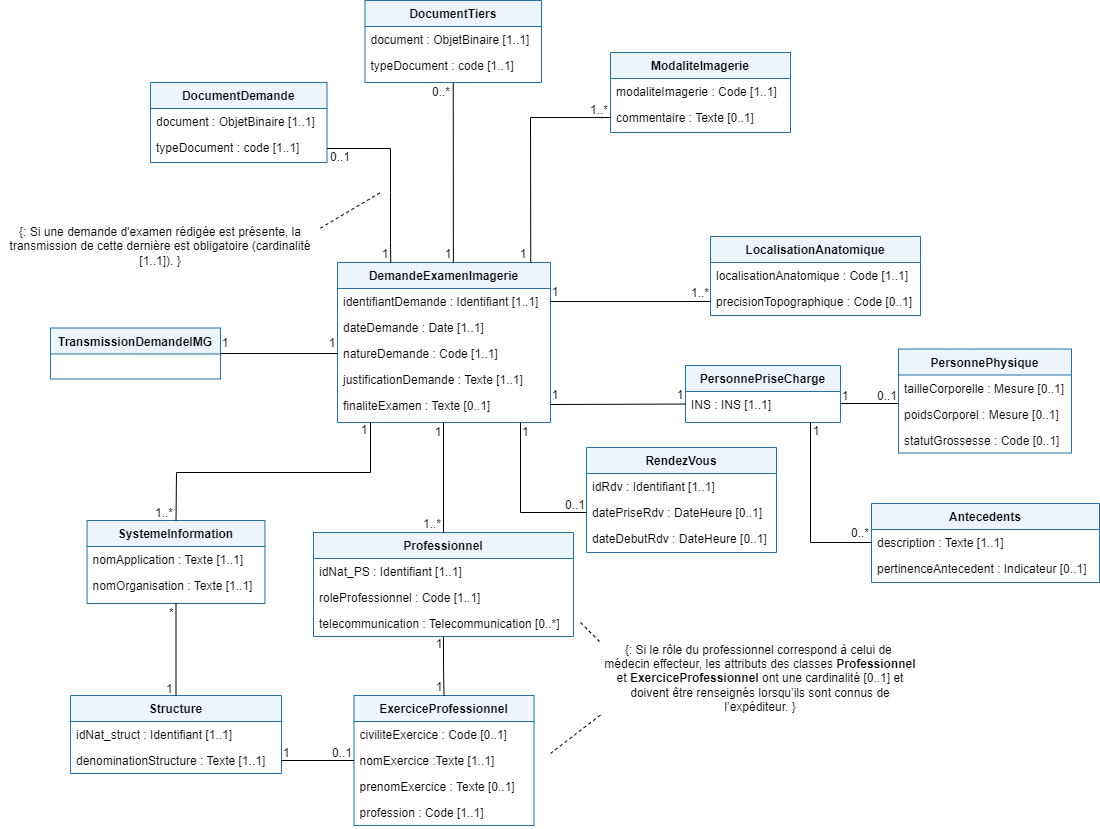
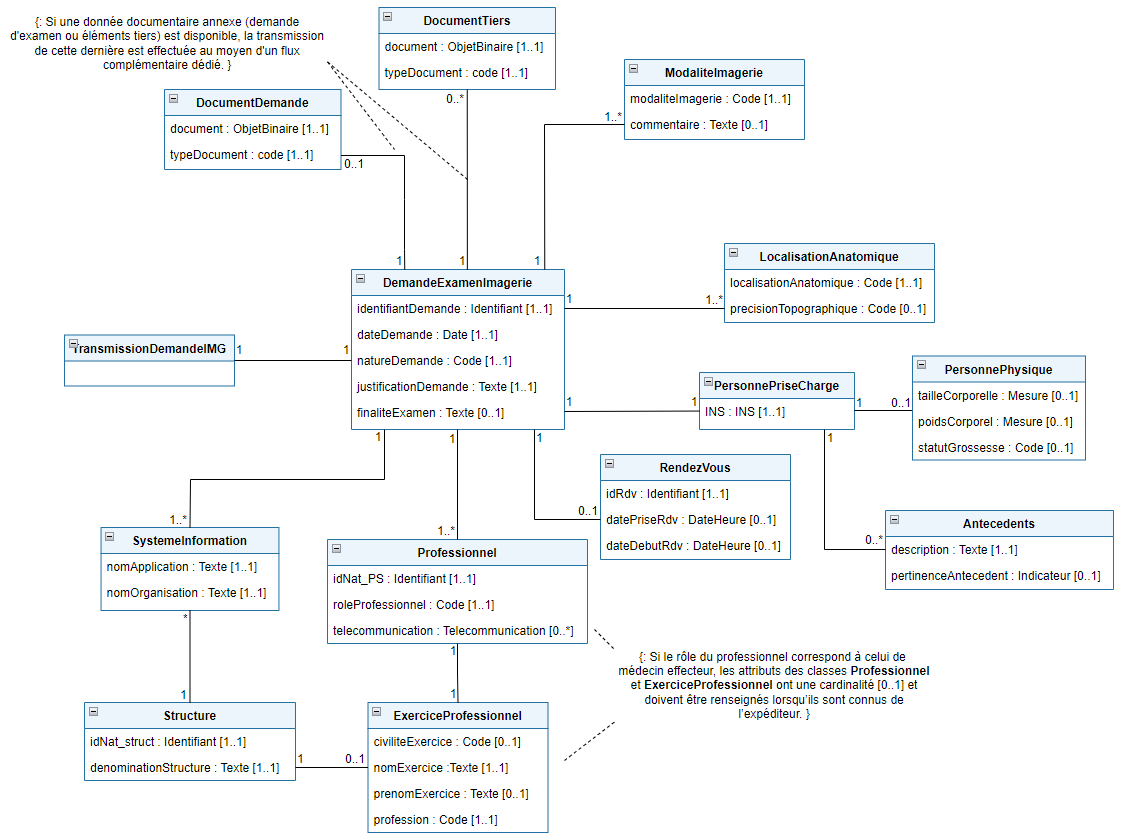
Ajustements SFE Issue #24 #27
Modification du contenu de la SFE afin de répondre aux problématiques suivantes :
Clarification du périmètre couvert par le flux n°1
Ajout d'un complément d'informations relatif à la gestion de l'URL viewer DRIMBox.

diff --git a/input/pagecontent/specifications_fonctionnelles.md b/input/pagecontent/specifications_fonctionnelles.md
@@ -148,7 +148,7 @@ Les lecteurs cibles de la présente spécification sont principalement des chefs
 
 La pratique de la téléradiologie peut être découpée en plusieurs groupes de processus associés à un contexte collaboratif entre un site demandeur d’une expertise médicale (structure d’imagerie) et un site distant en mesure de répondre à ce besoin (plateforme de téléradiologie). Dans ce cadre, trois groupes de processus sont distingués :
 
-- Le premier groupe concerne la demande d’examen d’imagerie. Il couvre les actions nécessaires à la création, la transmission, l’annulation, la validation, le refus, la modification ou la publication d’une demande d’examen d’imagerie.
+- Le premier groupe concerne la demande d’examen d’imagerie. Il couvre les actions nécessaires à la création, la transmission, l’annulation, la validation, le refus, la modification ou la publication d’une demande d’examen d’imagerie. Il est à noter qu'au sein de la présente étude le terme "demande d'examen d'imagerie" peut recouvrir aussi bien une donnée documentaire qu'un ensemble d'informations ordonnées permettant d'apprécier la prise en charge d'un patient en vue de la réalisation d'un acte d'imagerie.    
 
 - Le deuxième groupe est relatif à la réalisation du ou des actes d’imagerie. Il englobe les actions nécessaires à la préparation, au déroulement et au partage d’un ou plusieurs examens d’imagerie.
 
@@ -237,11 +237,11 @@ Les différents processus collaboratifs retenus dans le périmètre de la prése
 </tr>
 <tr>
 <td><strong>Contraintes fonctionnelles</strong></td>
-<td>Si la demande d’examen rédigée est connue (contexte de planification), en complément des éléments clés associés à la demande d'examen d'imagerie véhiculés dans la transaction, le Créateur initie au moins une transaction supplémentaire correspondant au document Demande d'examen d'imagerie complet (numérisé).</td>
+<td>Si la demande d’examen rédigée est connue (contexte de planification), en complément des éléments clés associés à la demande d'examen d'imagerie véhiculés dans la transaction, le Créateur peut initier au moins une transaction supplémentaire correspondant au document Demande d'examen d'imagerie complet (numérisé).</td>
 </tr>
 <tr>
 <td><strong>Scénario nominal</strong></td>
-<td>Le Créateur transmet une demande d’examen d’imagerie au Consommateur. Cette demande peut être accompagnée d’un ou plusieurs documents complémentaires.<br />
+<td>Le Créateur transmet les éléments composant une demande d’examen d’imagerie au Consommateur. Cette demande peut être accompagnée d’un ou plusieurs documents complémentaires.<br />
 Le Consommateur réceptionne et analyse la demande d’examen d’imagerie. Si applicable, le consommateur prend également connaissance des informations portées le(s) document(s) annexes.</td>
 </tr>
 </tbody>
@@ -690,12 +690,12 @@ Le diagramme d’activité ci-dessous illustre l’action de transmission des in
 <tr>
 <td>DocumentDemandeExamen</td>
 <td>Document correspondant à la demande d’examen d’imagerie rédigée.</td>
-<td>Flux 1</td>
+<td>N.A.</td>
 </tr>
 <tr>
 <td>DocumentsTiers</td>
 <td>Documents complémentaires associés à la demande d’examen d’imagerie.</td>
-<td>Flux 1</td>
+<td>N.A.</td>
 </tr>
 <tr>
 <td>LocalisationAnatomique</td>
@@ -718,8 +718,8 @@ Le diagramme d’activité ci-dessous illustre l’action de transmission des in
 <td>Flux 3</td>
 </tr>
 <tr>
-<td>URLViewerDRIMBOX</td>
-<td>Eléments permettant la construction d’une URL d’accès à la visionneuse DICOM implémentée par une solution DRIMBox associée au système RIS. Une fois l’URL assemblée, celle-ci doit être mentionnée au sein du compte-rendu d’imagerie. Ce concept permet l’intégration au maillage DRIM-M du compte-rendu d’imagerie rédigé suite à la réalisation de l’acte d’imagerie.</td>
+<td>URL_Partielle_Viewer</td>
+<td>Adresse partielle à compléter afin de permettre l’accès à la visionneuse DICOM implémentée par une solution DRIMBox associée au système RIS. Il est nécessaire de compléter cette donnée avec l'identifiant du compte-rendu d'imagerie afin d'obtenir un lien d'accès fonctionnel. Une fois l’URL assemblée, celle-ci doit être mentionnée au sein du compte-rendu d’imagerie. Ce concept permet l’intégration au maillage DRIM-M du compte-rendu d’imagerie rédigé suite à la réalisation de l’acte d’imagerie.</td>
 <td>Flux 4</td>
 </tr>
 <tr>
@@ -919,7 +919,7 @@ Le tableau présenté ci-dessous contient les éléments suivants :
 <td></td>
 </tr>
 <tr>
-<td>URLViewerDRIMBOX</td>
+<td>URL_Partielle_Viewer</td>
 <td></td>
 <td></td>
 <td></td>
@@ -999,6 +999,12 @@ Le tableau présenté ci-dessous contient les éléments suivants :
     </p>
 </div>
 
+<blockquote class="stu-note">
+    <p>
+    <b>(1) :</b> Il est important de préciser que les classes "DocumentDemande" et "DocumentTiers" ne sont mentionnées au sein de la modélisation ci-dessus qu'à des fins de valorisation du contexte global. En effet, le flux n°1 mis en oeuvre ne véhicule aucune données documentaire mais peut être complété par un ou plusieurs flux annexes véhiculant ces éléments. Ces flux annexes mis en oeuvre pour le transport des données correspondant aux classes "DocumentDemande" et "DocumentTiers" ne sont pas couvert au titre du périmètre de la présente étude. Il peut néanmoins être précisé que la mise en oeuvre de ces flux doit s’appuyer sur le Volet CI-SIS de transmission d’un document CDA-R2 en HL7v2.
+    </p>
+</blockquote>
+
 ##### Classe DemandeExamenImagerie
 
 Représente l’ensemble des informations nécessaires pour formaliser la demande de réalisation d’un examen d’imagerie. Regroupe les éléments cliniques, administratifs et organisationnels transmis par le prescripteur afin de justifier l’examen et de permettre au médecin effecteur d’en évaluer la pertinence et la faisabilité.
@@ -1015,7 +1021,7 @@ Représente l’ensemble des informations nécessaires pour formaliser la demand
 
 ##### Classe DocumentDemande
 
-Document formalisant la demande d’examen d’imagerie.
+Document formalisant la demande d’examen d’imagerie. Information véhiculée au travers d'un flux complémentaire dédié.
 
 | **Nom** | **Description** |
 |----|----|
@@ -1026,7 +1032,7 @@ Document formalisant la demande d’examen d’imagerie.
 
 ##### Classe DocumentTiers
 
-Documents complémentaires associés à la demande d’examen. Représente tout élément additionnel utile à l’évaluation ou à la prise en charge du patient, tels que des comptes rendus, résultats, justificatifs ou documents cliniques pertinents.
+Documents complémentaires associés à la demande d’examen. Représente tout élément additionnel utile à l’évaluation ou à la prise en charge du patient, tels que des comptes rendus, résultats, justificatifs ou documents cliniques pertinents. Information véhiculée au travers d'un flux complémentaire dédié.
 
 | **Nom** | **Description** |
 |----|----|
@@ -1325,7 +1331,7 @@ Regroupe les informations relatives aux images produites lors d’un examen d’
 
 | **Nom** | **Description** |
 |----|----|
-| urlViewerDrimBox : Texte \[1..1\] | Eléments permettant la construction d’une URL d’accès à la visionneuse DICOM implémentée par une solution DRIMBox associée au système RIS. Une fois l’URL assemblée, celle-ci doit être mentionnée au sein du compte-rendu d’imagerie. |
+| urlPartielleViewer : Texte \[1..1\] | Eléments permettant la construction d’une URL d’accès à la visionneuse DICOM implémentée par une solution DRIMBox associée au système RIS. Une fois l’URL assemblée, celle-ci doit être mentionnée au sein du compte-rendu d’imagerie. |
 | dureeRetentionImages : Duree \[1..1\] | Durée de rétention propre à l’archive impliquée concernant les images médicales associées à l’acte ou aux actes d’imagerie effectué. Cette information doit apparaître explicitement au sein du compte-rendu d’imagerie. |
 
 <p style="text-align:center;">Table 37 : Attributs de la classe « Images»</p>
